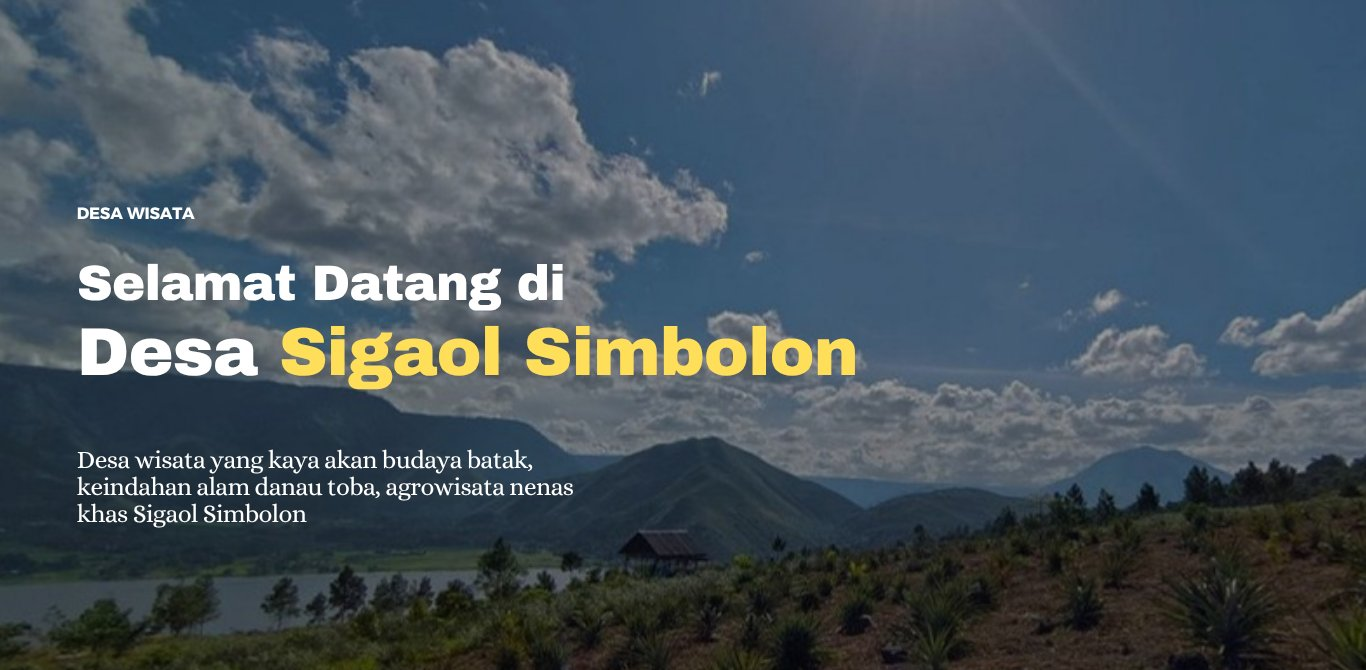
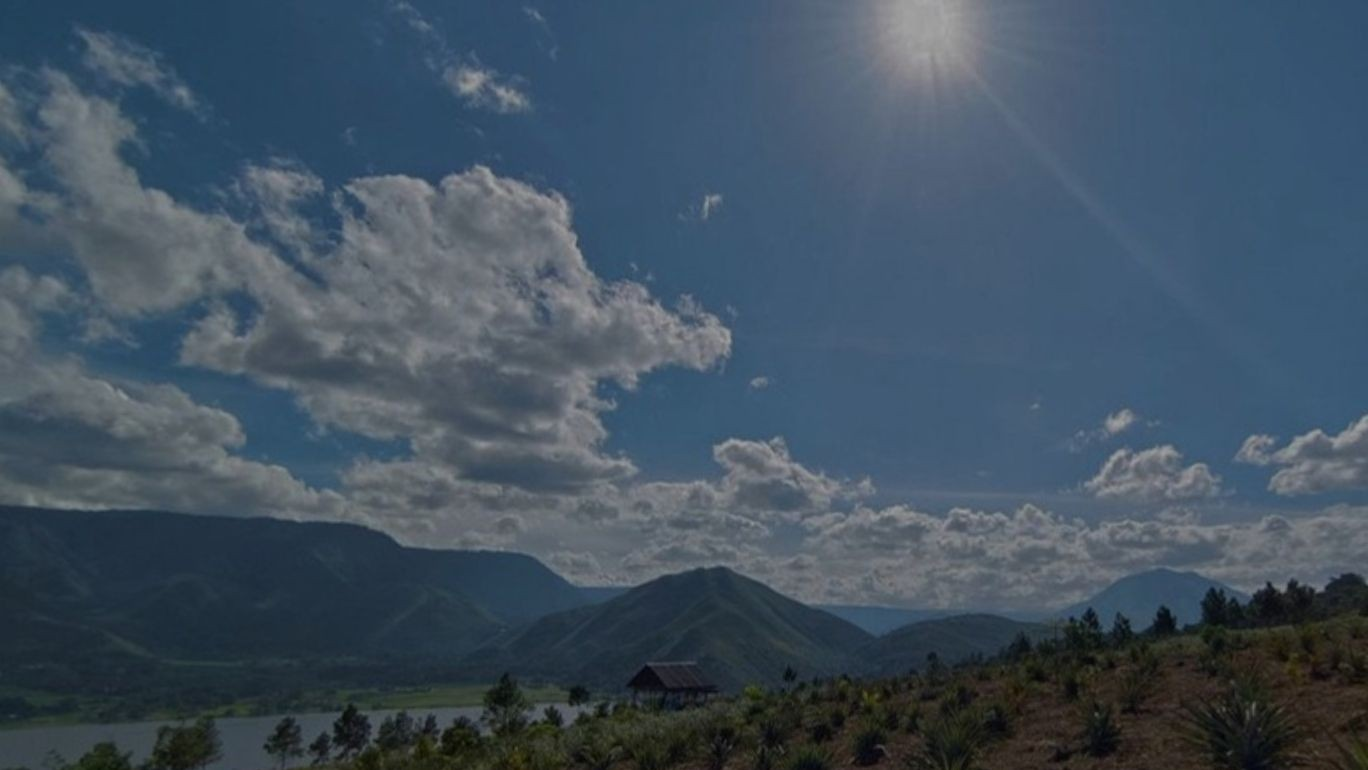
Update 0.2.1 fix hero

diff --git a/assets/css/main.css b/assets/css/main.css
@@ -11,13 +11,22 @@
   --max-width: 1180px;
 }
 
-* { box-sizing: border-box; }
+* {
+  box-sizing: border-box;
+}
 
-html { scroll-behavior: smooth; }
+html {
+  scroll-behavior: smooth;
+}
 
 body {
   margin: 0;
-  font-family: 'Poppins', -apple-system, BlinkMacSystemFont, 'Segoe UI', sans-serif;
+  font-family:
+    "Poppins",
+    -apple-system,
+    BlinkMacSystemFont,
+    "Segoe UI",
+    sans-serif;
   color: var(--navy);
   background: #ffffff;
   -webkit-font-smoothing: antialiased;
@@ -29,17 +38,23 @@ body {
   padding: 0 24px;
 }
 
-h1, h2, h3 { margin: 0; }
+h1,
+h2,
+h3 {
+  margin: 0;
+}
 
 .eyebrow {
-  font-size: 13px;
+  font-size: 15px;
   font-weight: 700;
   letter-spacing: 1.5px;
   color: var(--navy);
   margin: 0 0 12px;
 }
 
-.eyebrow-light { color: #ffffff; }
+.eyebrow-light {
+  color: #ffffff;
+}
 
 .eyebrow-center {
   text-align: center;
@@ -48,37 +63,53 @@ h1, h2, h3 { margin: 0; }
 
 /* ---------- Hero ---------- */
 .hero {
-  min-height: 620px;
-  background-size: cover;
+  width: 100%;
+  aspect-ratio: 16 / 9;
+  background-size: 100% 100%;
   background-position: center;
+  background-repeat: no-repeat;
+
   display: flex;
   align-items: center;
   position: relative;
 }
 
 .hero-inner {
+  width: 100%;
   padding-top: 90px;
   padding-bottom: 90px;
+
+  display: flex;
+  flex-direction: column;
+  align-items: flex-start;
+  text-align: left;
 }
 
 .hero-title {
-  font-size: 46px;
+  max-width: 800px;
+  font-family: "Archivo Black", sans-serif;
+  font-size: 40px;
   font-weight: 800;
   line-height: 1.15;
   color: #ffffff;
   margin-bottom: 22px;
-  text-shadow: 0 2px 18px rgba(0,0,0,0.25);
+  text-shadow: 0 2px 18px rgba(0, 0, 0, 0.25);
 }
 
-.hero-title .highlight { color: var(--gold); }
+.hero-title .below {
+  font-size: 60px;
+}
+
+.hero-title .highlight {
+  color: var(--gold);
+}
 
 .hero-subtitle {
-  font-family: 'Lora', serif;
-  font-style: italic;
-  font-size: 17px;
+  max-width: 600px;
+  font-family: "Alice", serif;
+  font-size: 25px;
   line-height: 1.6;
   color: #f1f3f6;
-  max-width: 480px;
   margin: 0;
 }
 
@@ -126,7 +157,9 @@ h1, h2, h3 { margin: 0; }
   border-bottom: 1px solid var(--border-soft);
 }
 
-.stat-row:last-child { border-bottom: none; }
+.stat-row:last-child {
+  border-bottom: none;
+}
 
 .stat-icon {
   color: var(--navy);
@@ -225,7 +258,7 @@ h1, h2, h3 { margin: 0; }
   padding: 10px 24px;
   border-radius: 999px;
   white-space: nowrap;
-  box-shadow: 0 6px 16px rgba(0,0,0,0.15);
+  box-shadow: 0 6px 16px rgba(0, 0, 0, 0.15);
 }
 
 /* ---------- Footer ---------- */
@@ -243,15 +276,32 @@ h1, h2, h3 { margin: 0; }
 
 /* ---------- Responsive ---------- */
 @media (max-width: 860px) {
-  .about-grid { grid-template-columns: 1fr; }
-  .hero-title { font-size: 34px; }
-  .destinations-grid { grid-template-columns: 1fr; max-width: 420px; }
-  .section-title { font-size: 26px; }
+  .about-grid {
+    grid-template-columns: 1fr;
+  }
+  .hero-title {
+    font-size: 34px;
+  }
+  .destinations-grid {
+    grid-template-columns: 1fr;
+    max-width: 420px;
+  }
+  .section-title {
+    font-size: 26px;
+  }
 }
 
 @media (max-width: 480px) {
-  .hero { min-height: 520px; }
-  .hero-title { font-size: 28px; }
-  .about { padding: 60px 0; }
-  .destinations { padding: 20px 0 60px; }
+  .hero {
+    min-height: 520px;
+  }
+  .hero-title {
+    font-size: 28px;
+  }
+  .about {
+    padding: 60px 0;
+  }
+  .destinations {
+    padding: 20px 0 60px;
+  }
 }

diff --git a/index.html b/index.html
@@ -2,13 +2,16 @@
 layout: default
 title: "Desa Wisata Sigaol Simbolon"
 ---
+<link rel="preconnect" href="https://fonts.googleapis.com">
+<link rel="preconnect" href="https://fonts.gstatic.com" crossorigin>
+<link href="https://fonts.googleapis.com/css2?family=Alice&family=Archivo+Black&display=swap" rel="stylesheet">
 
 <section class="hero" style="background-image: linear-gradient(180deg, rgba(10,20,35,0.55) 0%, rgba(10,20,35,0.35) 45%, rgba(10,20,35,0.65) 100%), url('{{ "/assets/images/hero.jpg" | relative_url }}');">
   <div class="container hero-inner">
     <p class="eyebrow eyebrow-light">DESA WISATA</p>
     <h1 class="hero-title">
       Selamat Datang di<br>
-      Desa <span class="highlight">Sigaol Simbolon</span>
+      <span class="below">Desa <span class="highlight">Sigaol Simbolon</span></span>
     </h1>
     <p class="hero-subtitle">
       Desa wisata yang kaya akan budaya batak, keindahan alam danau toba,
